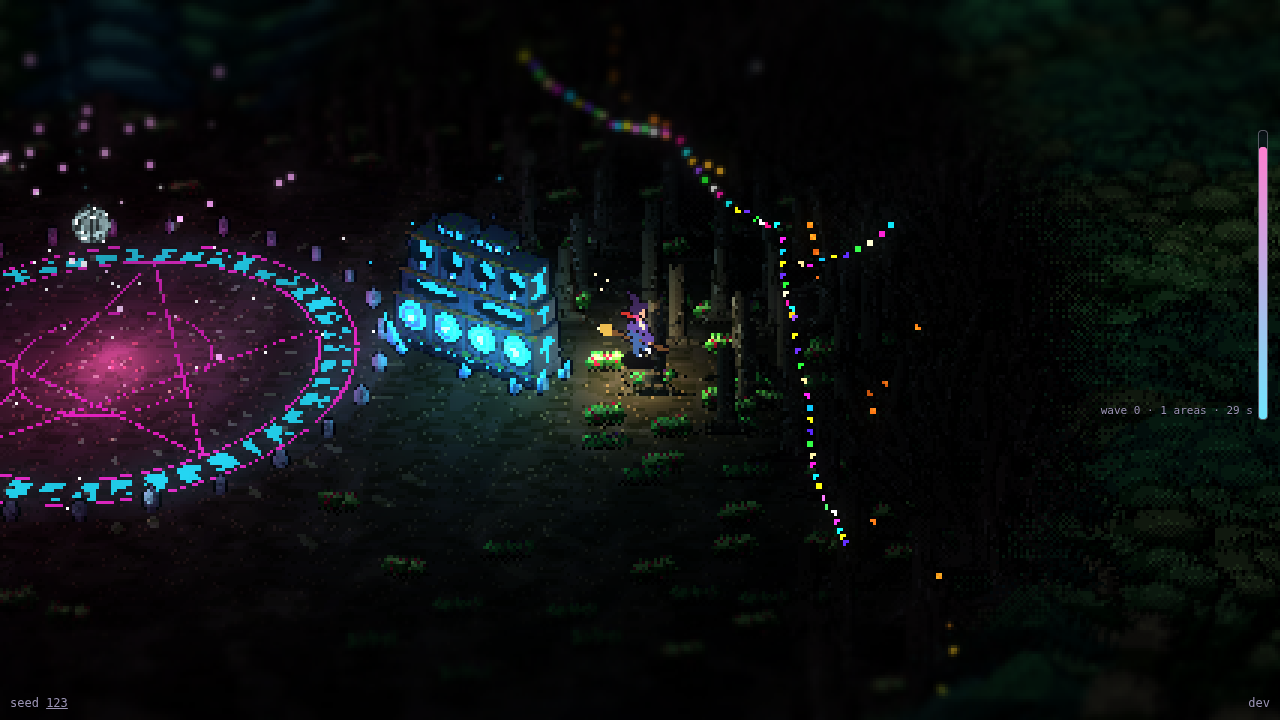
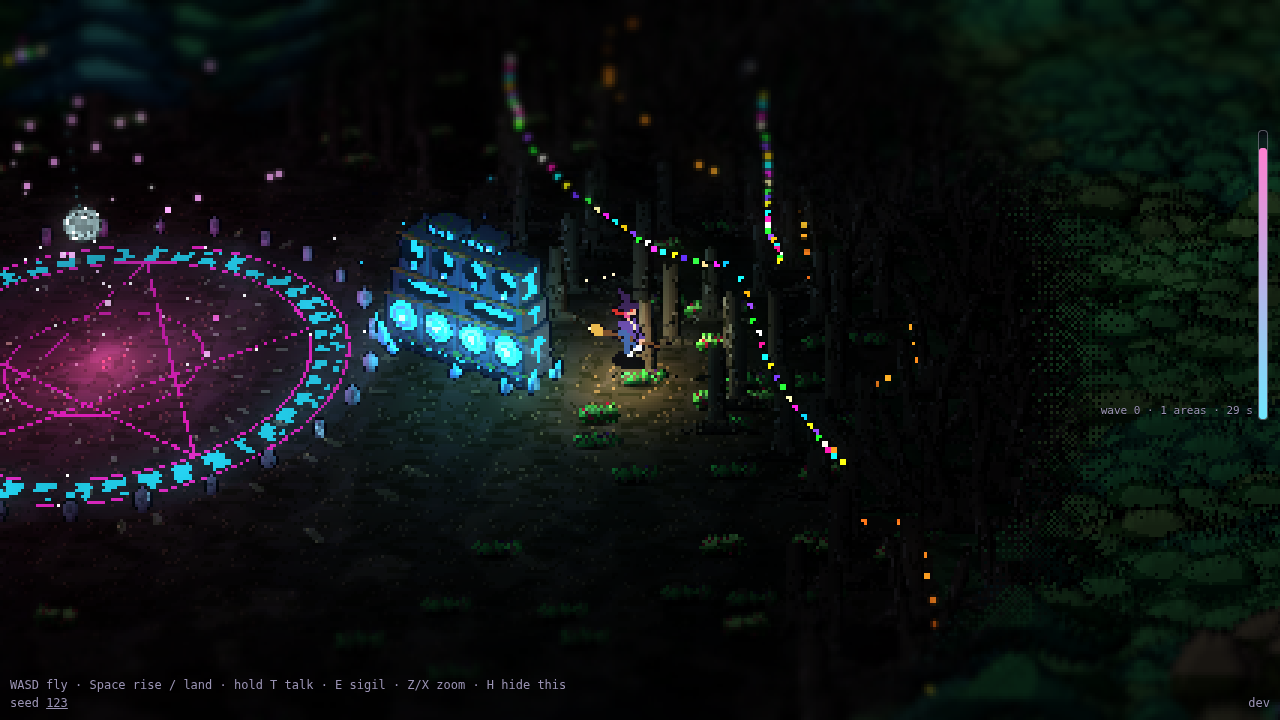
Soundsystems face left or right at random; set pieces 1.8x with a clearing to match; ragged area edges (each plant's look from a jittered area lookup, areaEdgeBlend), gameplay keeps the exact partition
Claude-Session: https://claude.ai/code/session_01MR6jyHx6mcGYyfzATvhXK3

diff --git a/src/rules/forest.ts b/src/rules/forest.ts
@@ -25,6 +25,18 @@ export function crownReach(map: ForestMap): number {
   return map.tuning.crownHeight / Math.sin(pitch);
 }
 
+/** Which area's plants grow at (x, z): the area a little way off, by a seeded low-frequency
+ *  offset plus a per-plant stray, so each area's trees and bushes reach a little into its
+ *  neighbours with a ragged edge (Ed, 2026-10-03). Only the look blends: everything else (where
+ *  creatures roam, partifying, the party border, which area you're in) uses the exact partition. */
+export function plantType(map: ForestMap, x: number, z: number, i: number, j: number, salt: number): number {
+  const E = map.tuning.areaEdgeBlend, s = map.seed;
+  if (E.width <= 0) return map.areaAt(x, z).type;
+  const nx = (vnoise(x / E.scale, z / E.scale, s + 81) - 0.5) * 2 * E.width + (hash2(i, j, salt + 1) - 0.5) * E.width * E.stray;
+  const nz = (vnoise(x / E.scale, z / E.scale, s + 82) - 0.5) * 2 * E.width + (hash2(i, j, salt + 2) - 0.5) * E.width * E.stray;
+  return map.areaAt(x + nx, z + nz).type;
+}
+
 function treesInChunk(map: ForestMap, ci: number, cj: number): Plant[] {
   const { treeSpacingX: sx, treeSpacingZ: sz } = map.tuning, s = map.seed;
   const out: Plant[] = [], lift = crownReach(map), half = map.tuning.crownHalfWidth;
@@ -36,10 +48,10 @@ function treesInChunk(map: ForestMap, ci: number, cj: number): Plant[] {
       const x = (i + shift + (hash2(i, j, s + 101) - 0.5) * 0.7) * sx;
       const z = (j + (hash2(i, j, s + 102) - 0.5) * 0.7) * sz;
       // A crown must not cover a clearing either, so the weight is checked where it reaches.
-      const a = map.areaAt(x, z);
-      if (hash2(i, j, s + 103) >= map.treeWeight(x, z) * AREA_TYPES[a.type].treeDensity) continue;
+      const type = plantType(map, x, z, i, j, s + 106);
+      if (hash2(i, j, s + 103) >= map.treeWeight(x, z) * AREA_TYPES[type].treeDensity) continue;
       if (map.treeWeight(x, z - lift) === 0 || map.treeWeight(x - half, z - lift) === 0 || map.treeWeight(x + half, z - lift) === 0) continue;
-      out.push({ x, z, type: a.type, variant: Math.floor(hash2(i, j, s + 104) * TREE_VARIANTS), flip: hash2(i, j, s + 105) < 0.5 });
+      out.push({ x, z, type, variant: Math.floor(hash2(i, j, s + 104) * TREE_VARIANTS), flip: hash2(i, j, s + 105) < 0.5 });
     }
   }
   return out;
@@ -55,7 +67,7 @@ function bushesInChunk(map: ForestMap, ci: number, cj: number): Plant[] {
     const clump = 1 + map.tuning.bushClump * (2 * smoothstep((vnoise(x / 13, z / 13, s + 207) - 0.35) / 0.3) - 1);
     if (hash2(i, j, s + 203) > (0.12 + Math.min(1, map.treeWeight(x, z)) * 0.3) * map.tuning.bushDensity * clump) continue;
     if (Math.hypot(x - map.dancefloor.x, z - map.dancefloor.z) < map.dancefloor.radius + 2) continue; // the dancefloor stays clear
-    out.push({ x, z, type: map.areaAt(x, z).type, variant: Math.floor(hash2(i, j, s + 204) * BUSH_VARIANTS), flip: hash2(i, j, s + 205) < 0.5 });
+    out.push({ x, z, type: plantType(map, x, z, i, j, s + 206), variant: Math.floor(hash2(i, j, s + 204) * BUSH_VARIANTS), flip: hash2(i, j, s + 205) < 0.5 });
   }
   return out;
 }

diff --git a/src/rules/map.ts b/src/rules/map.ts
@@ -159,20 +159,25 @@ export function generateMap(seed: number, tuning: Tuning): ForestMap {
     const [u, v] = toPart(x, z), cell = partition.partition(u, v);
     return { cell, type: typeOf(cell[0], cell[1]), openness: partition.openness(u, v) };
   };
+  const setPieceOf = (cx: number, cy: number) => {
+    const t = AREA_TYPES[typeOf(cx, cy)];
+    return t.setPiece && hash2(cx, cy, seed + 61) < tuning.setPieceChance ? t.setPiece : null;
+  };
   // The dancefloor keeps a clearing of its own, however close a neighbouring area's centre.
   const floorR = tuning.dancefloor.radius, floorClear = floorR + tuning.dancefloor.clearing;
   const treeWeight = (x: number, z: number) => {
     if (Math.hypot(x - centre.x, z - centre.z) < floorClear) return 0;
-    const [u, v] = toPart(x, z);
+    const [u, v] = toPart(x, z), cell = partition.partition(u, v);
+    // A set piece keeps a clearing round it, sized with it.
+    if (setPieceOf(cell[0], cell[1])) {
+      const p = siteOf(cell[0], cell[1]);
+      if (Math.hypot(x - p.x, z - (p.z - 4)) < tuning.setPieceClear * tuning.setPieceScale) return 0;
+    }
     // Trees thin gradually toward the centre: a long smooth falloff over clearingFalloff.
     const glade = 1 - smoothstep((vnoise(x / tuning.gladeScale, z / tuning.gladeScale, seed + 61) - (1 - tuning.gladeAmount)) / 0.03);
     return smoothstep((partition.openness(u, v) - tuning.clearingSize) / Math.max(0.01, tuning.clearingFalloff)) * tuning.treeDensity * glade;
   };
 
-  const setPieceOf = (cx: number, cy: number) => {
-    const t = AREA_TYPES[typeOf(cx, cy)];
-    return t.setPiece && hash2(cx, cy, seed + 61) < tuning.setPieceChance ? t.setPiece : null;
-  };
   const remoteness = (cx: number, cy: number) => Math.min(1, Math.hypot(cx - centreCell[0], cy - centreCell[1]) / (n / 2));
   const pad = A * 0.5;
   return {

diff --git a/src/render/party.ts b/src/render/party.ts
@@ -4,7 +4,7 @@
 // the ground as the front reaches the clearing. The rules are in rules/party.ts.
 import * as THREE from "three";
 import type { Game } from "../rules/game";
-import { smoothstep } from "../rules/random";
+import { hash2, smoothstep } from "../rules/random";
 import type { Atlas } from "./atlas";
 import type { SpriteInstance } from "./sprites";
 import type { ForestLight } from "./view";
@@ -44,7 +44,10 @@ export class PartyView {
         sweeps.push({ x: ox, z: oz, radius: p * reach, strength: 1 - smoothstep((p - 0.8) / 0.2) });
       }
       if (rise > 0 && visible(s.x, s.z, frame.w * this.metresPerPixel, h)) {
-        items.push({ x: s.x, y: -(1 - rise) * h, z: s.z, frame, flip: false, fresh: mark(s.x, s.z, h) });
+        // Each faces left or right, seeded from where it stands (Ed, 2026-10-03); the shader mirrors
+        // its normal map too, and its light and lasers rise from its centre either way.
+        const flip = hash2(Math.round(s.x * 10), Math.round(s.z * 10), 911) < 0.5;
+        items.push({ x: s.x, y: -(1 - rise) * h, z: s.z, frame, flip, fresh: mark(s.x, s.z, h) });
       }
       if (p >= 1) playing.push({ x: s.x, y: h * 0.85, z: s.z, seed: Math.floor(Math.abs(s.x * 7.3 + s.z * 13.1)) % 100000, ready: s.at + t.transition });
       const beat = 0.85 + 0.15 * Math.sin(time * 8);

diff --git a/src/render/view.ts b/src/render/view.ts
@@ -327,11 +327,12 @@ export class View {
         const pieces = pick(art.layout);
         if (!pieces.length) continue;
         const piece = pieces[p.variant % pieces.length], f = art.atlas.frames, frame = f[piece.bot], whole = f[piece.top ?? piece.bot];
-        if (!this.inView(p.x, p.z, whole.w * mpp, whole.h * mpp, margin)) continue;
-        const fresh = this.mark(kind, p.x, p.z, whole.h * mpp);
-        add(p.type, { x: p.x, y: 0, z: p.z, frame, flip: p.flip, fresh });
-        if (piece.top !== null) add(p.type, { x: p.x, y: 0, z: p.z, frame: f[piece.top], flip: p.flip, top: true, fresh });
-        shadows.push({ x: p.x, z: p.z, w: frame.w * mpp * 0.8, d: frame.w * mpp * 0.3 });
+        const scale = kind === "setpiece" ? t.setPieceScale : 1, m = mpp * scale; // set pieces: each area's landmark, drawn big
+        if (!this.inView(p.x, p.z, whole.w * m, whole.h * m, margin)) continue;
+        const fresh = this.mark(kind, p.x, p.z, whole.h * m);
+        add(p.type, { x: p.x, y: 0, z: p.z, frame, flip: p.flip, fresh, scale });
+        if (piece.top !== null) add(p.type, { x: p.x, y: 0, z: p.z, frame: f[piece.top], flip: p.flip, top: true, fresh, scale });
+        shadows.push({ x: p.x, z: p.z, w: frame.w * m * 0.8, d: frame.w * m * 0.3 });
         nb++;
       }
     };

diff --git a/src/rules/rules.test.ts b/src/rules/rules.test.ts
@@ -228,8 +228,21 @@ describe("trees", () => {
     expect(sparse.treesNear(150, 150, 60).length).toBeLessThan(forest.treesNear(150, 150, 60).length * 0.75);
   });
 
-  it("carry the type of the area they stand in", () => {
-    for (const t of forest.treesNear(150, 150, 40)) expect(t.type).toBe(map.areaAt(t.x, t.z).type);
+  it("carry their area's type, with a ragged edge: strays only near a border", () => {
+    const exact = new Forest(generateMap(123, withTuning({ areaEdgeBlend: { width: 0, scale: 24, stray: 0.5 } })));
+    for (const t of exact.treesNear(1300, 1300, 120)) expect(t.type).toBe(map.areaAt(t.x, t.z).type);
+    const W = TUNING.areaEdgeBlend.width, trees = forest.treesNear(1300, 1300, 160);
+    let own = 0, strays = 0;
+    for (const t of trees) {
+      if (t.type === map.areaAt(t.x, t.z).type) { own++; continue; }
+      strays++;
+      // A stray's look comes from an area close by.
+      let near = false;
+      for (let a = 0; a < 16 && !near; a++) for (const r of [W * 0.5, W, W * 1.6]) if (map.areaAt(t.x + Math.cos(a) * r, t.z + Math.sin(a) * r).type === t.type) near = true;
+      expect(near).toBe(true);
+    }
+    expect(own / trees.length).toBeGreaterThan(0.8);
+    expect(strays).toBeGreaterThan(0);
   });
 });
 

diff --git a/src/render/sprites.ts b/src/render/sprites.ts
@@ -83,7 +83,7 @@ void main() {
 }
 `;
 
-export interface SpriteInstance { x: number; y: number; z: number; frame: Frame; flip: boolean; top?: boolean; fresh?: boolean }
+export interface SpriteInstance { x: number; y: number; z: number; frame: Frame; flip: boolean; top?: boolean; fresh?: boolean; /** Drawn this much bigger (1 if left out). */ scale?: number }
 
 export class SpriteBatch {
   readonly mesh: THREE.Mesh;
@@ -139,7 +139,8 @@ export class SpriteBatch {
     const P = this.pos.array as Float32Array, S = this.size.array as Float32Array, U = this.uvs.array as Float32Array, F = this.flags.array as Float32Array;
     items.forEach((it, i) => {
       P[i * 3] = it.x; P[i * 3 + 1] = it.y; P[i * 3 + 2] = it.z;
-      S[i * 2] = it.frame.w * this.metresPerPixel; S[i * 2 + 1] = it.frame.h * this.metresPerPixel;
+      const k = it.scale ?? 1;
+      S[i * 2] = it.frame.w * this.metresPerPixel * k; S[i * 2 + 1] = it.frame.h * this.metresPerPixel * k;
       U.set(it.frame.uv, i * 4);
       F[i * 3] = it.flip ? 1 : 0; F[i * 3 + 1] = it.top ? 1 : 0; F[i * 3 + 2] = it.fresh ? 1 : 0;
     });

diff --git a/src/rules/tuning.ts b/src/rules/tuning.ts
@@ -15,6 +15,11 @@ export interface Tuning {
   /** Random glades in the woods: how much ground they take (0-1) and their size in metres. */
   gladeAmount: number;
   gladeScale: number;
+  /** Ragged area edges: plants take their look from up to width metres away (noise scale metres, plus a per-plant stray share). */
+  areaEdgeBlend: { width: number; scale: number; stray: number };
+  /** Set pieces drawn this much bigger than the art, with a clearing of setPieceClear metres (times the scale) round them. */
+  setPieceScale: number;
+  setPieceClear: number;
   bushDensity: number;
   /** How much bushes gather in clumps with open floor between (0 even, 1 strongly clumped). */
   bushClump: number;
